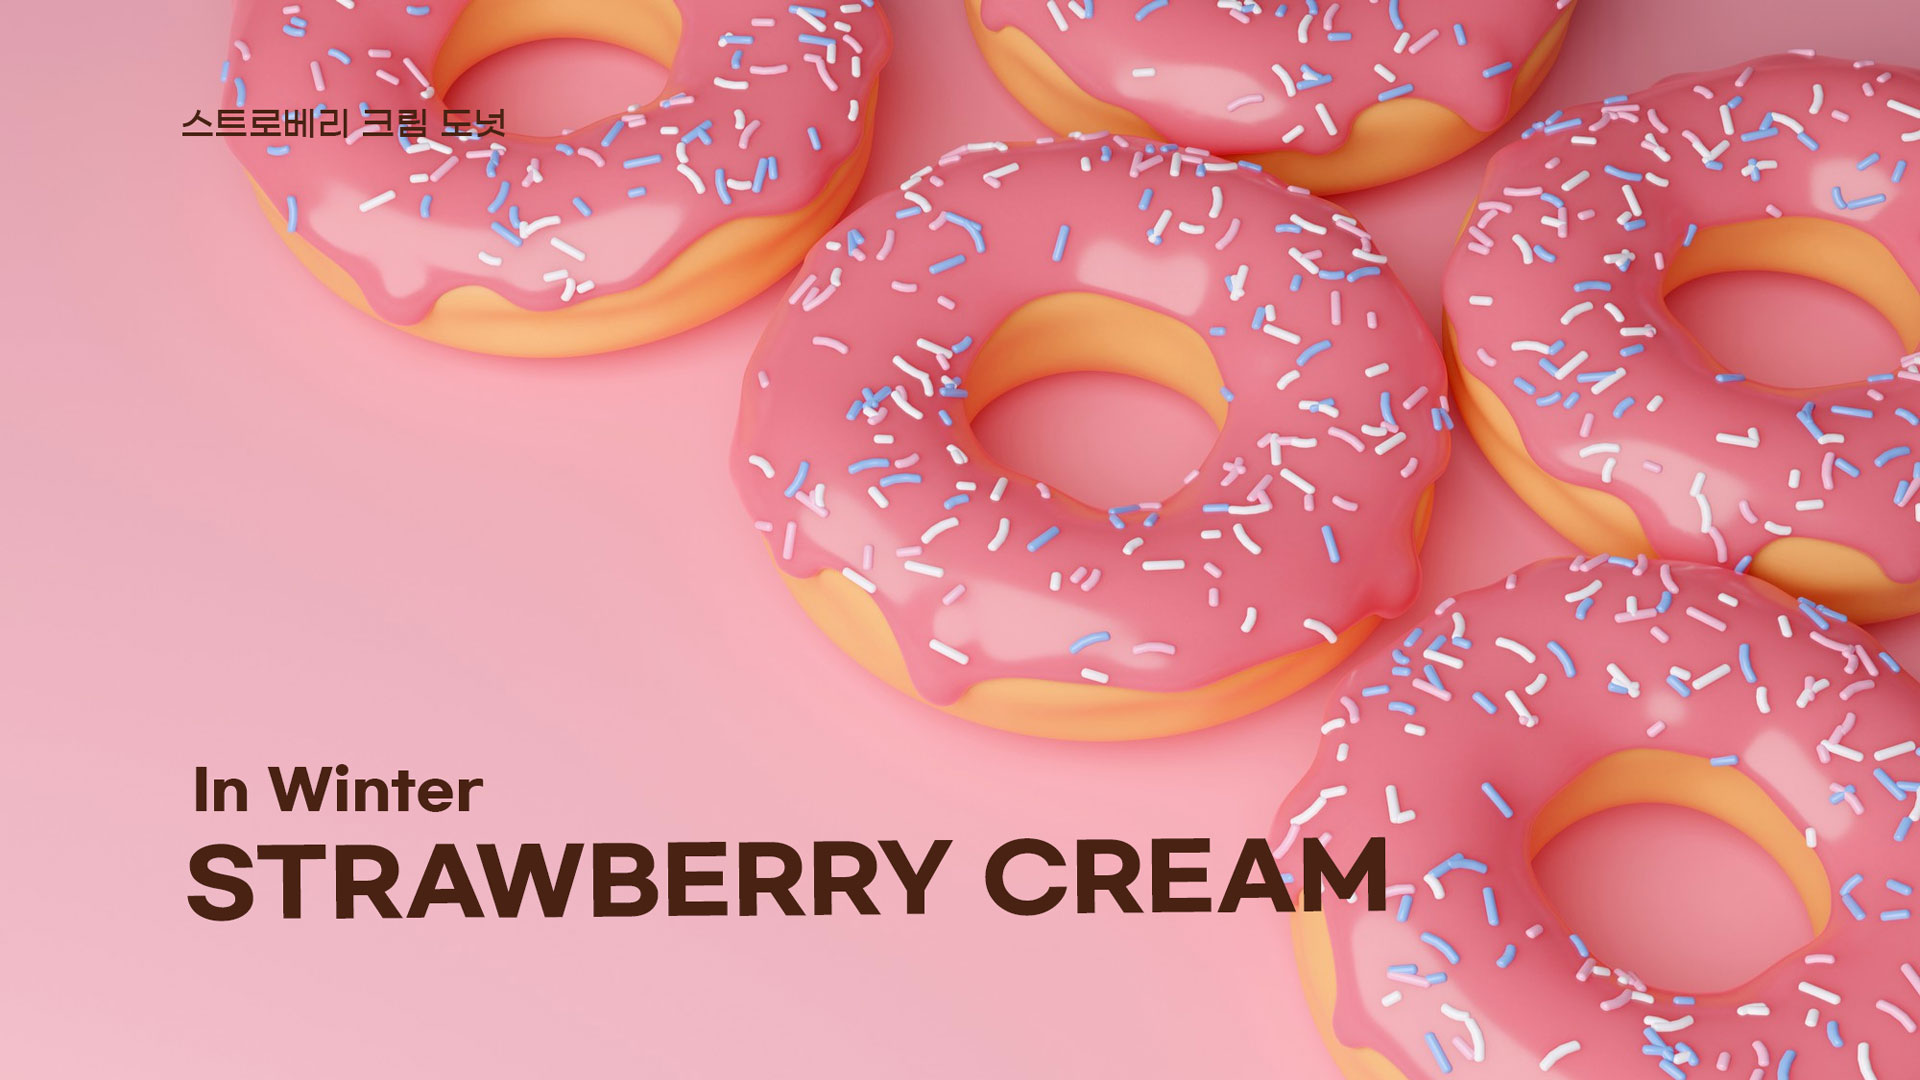
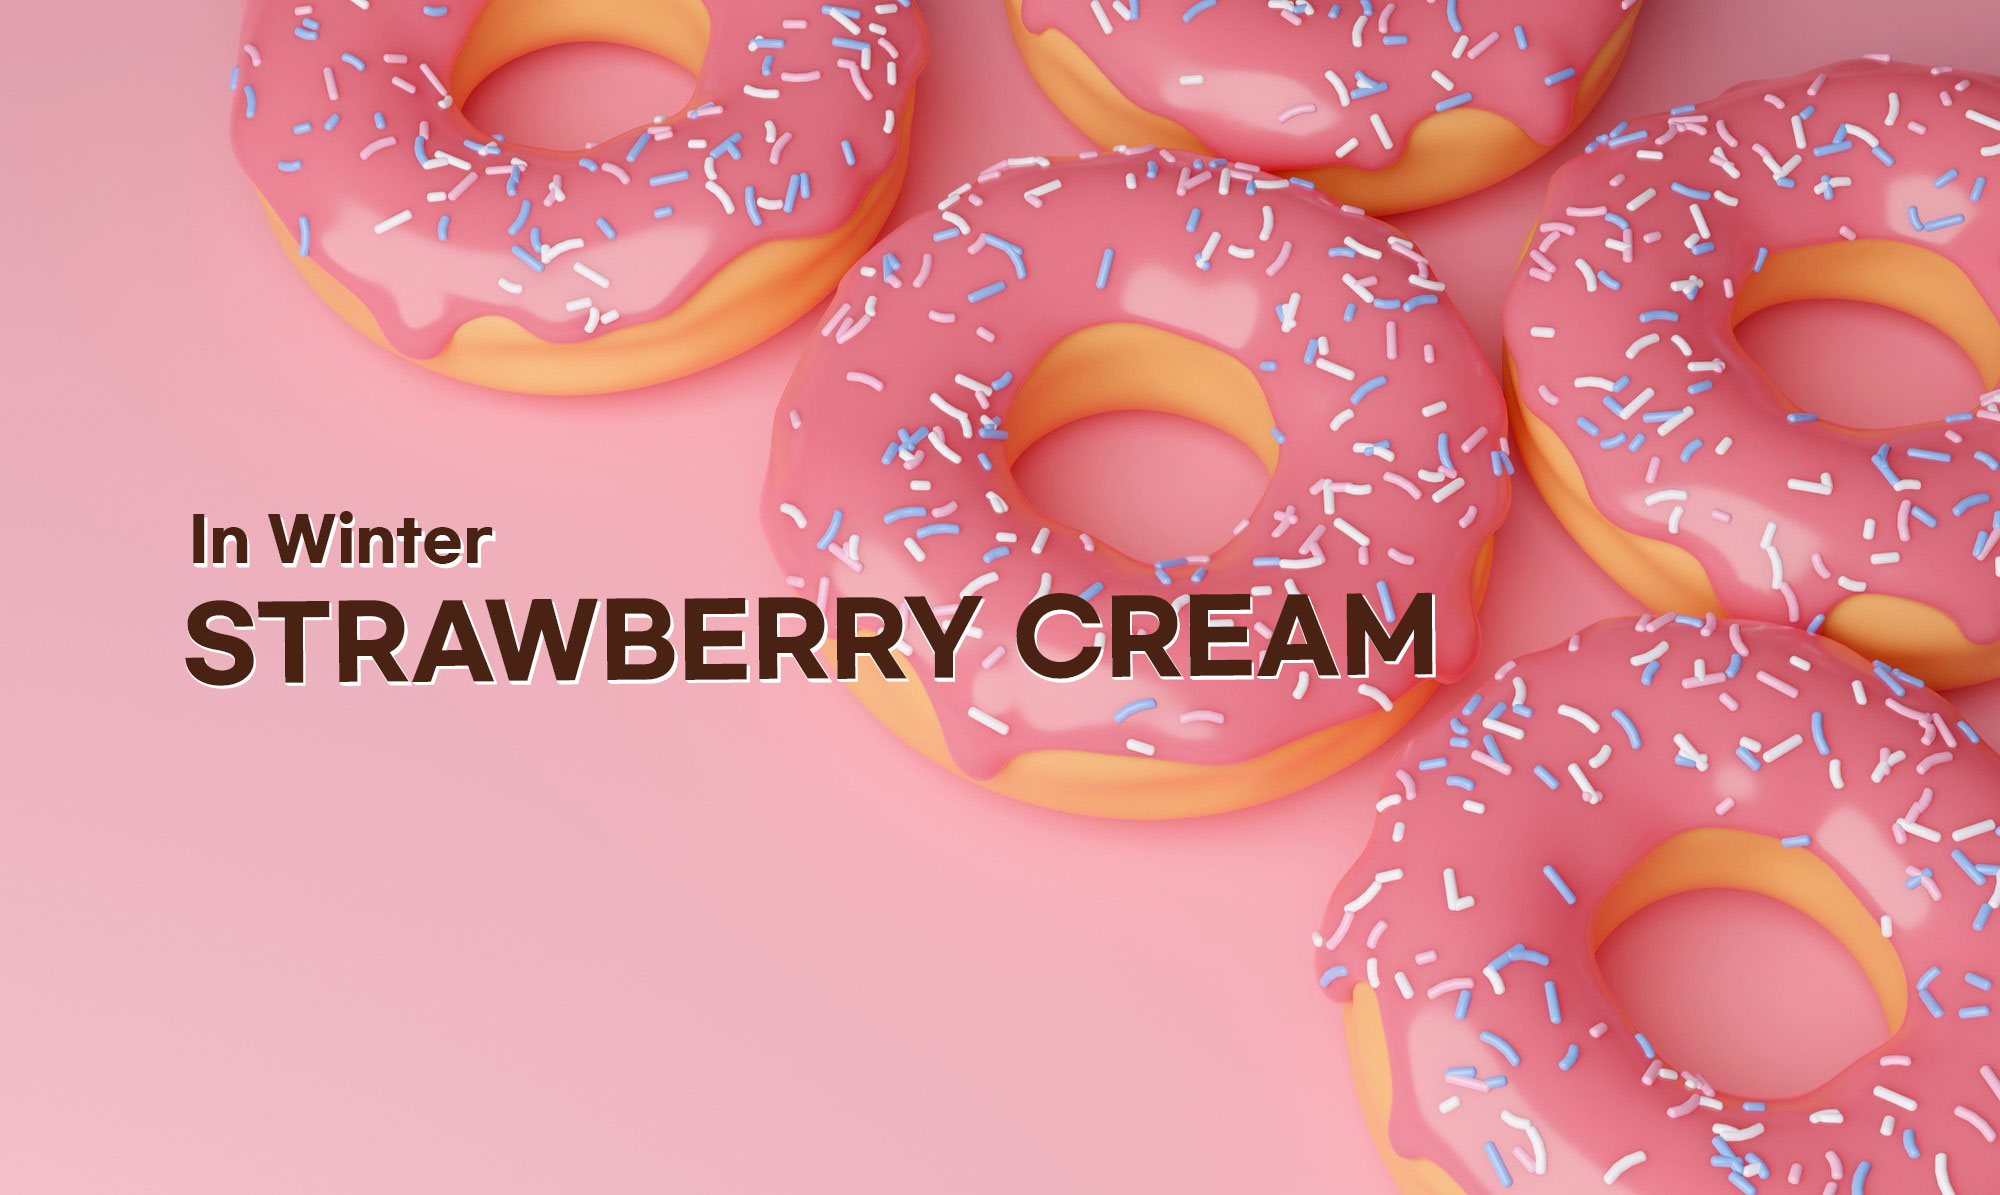
수정 2024.12.20 13:56

Changed region(s): [[0.0938, 0.7028, 0.75, 0.8556], [0.0938, 0.4278, 0.7188, 0.5806], [0.0938, 0.0917, 0.2812, 0.1528]]

diff --git a/index.html b/index.html
@@ -78,7 +78,7 @@
           <img src="img/main-visual1.jpg" alt="포밀넛의 달콤한 2+1이벤트 오리지널 포밀넛을 2개 구입하시면 1개는 덤!">
         </li>
         <li class="swiper-slide">
-          <img src="img/main-visual2.jpg" alt="스트로베리 크림 도넛 In Winter STRAWBERRY CREAM">
+          <img src="img/main-visual2.jpg" alt="In Winter STRAWBERRY CREAM">
       </ul>
     </div>
 

diff --git a/js/common.js b/js/common.js
@@ -3,8 +3,8 @@ $(document).ready(function(){
   AOS.init();
 
   $(".depth2").hide();
-  $(".gnb > li").hover(function(){
-    $(this).children(".depth2").stop().fadeToggle();
+  $(".gnb > li").mouseover(function(){
+    $(this).children(".depth2").stop().fadeIn().siblings().fadeOut();    
   });
 
   var mv = new Swiper(".mv", {
